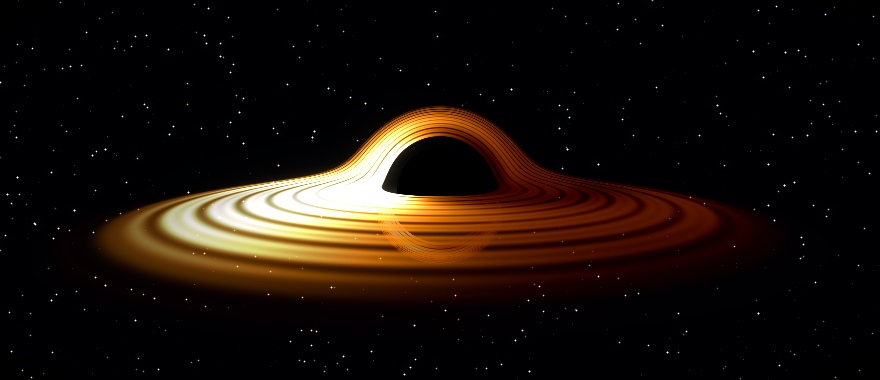
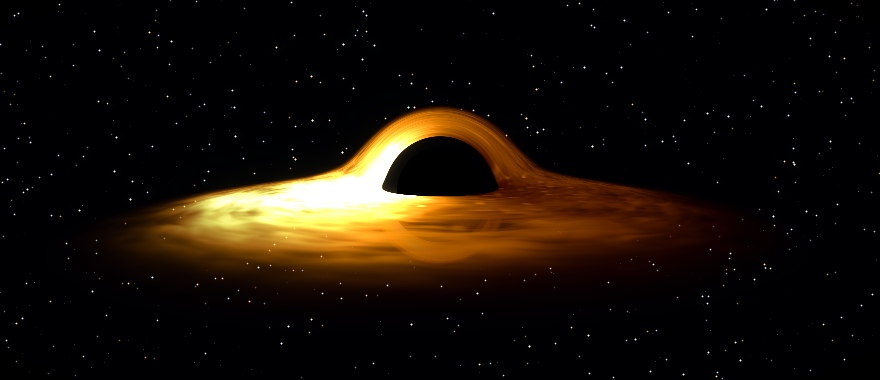
feat(accretion-disk): final cinematic polish pass with multi-scale turbulent plasma and natural thermal palette

Changed region(s): [[0.092, 0.2605, 0.8591, 0.7816]]

diff --git a/index.html b/index.html
@@ -300,30 +300,31 @@
           return col;
         }
 
-        // Relativistic Blackbody Color Ramp (Kip Thorne / Interstellar Accurate Palette)
-        // High temp -> Pure Incandescent White/Cyan
-        // Mid temp  -> Radiant Warm Gold / Amber
-        // Low temp  -> Fiery Orange / Dark Crimson Smoke
+        // Refined Natural Thermal Blackbody Palette:
+        // Outer: dark -> deep red -> fiery orange
+        // Middle: orange -> rich warm gold
+        // Inner: gold -> pale creamy yellow -> soft incandescent white (no flat clipping)
         vec3 blackbodyColor(float temp, float doppler) {
-          float t = clamp(temp * doppler, 0.0, 2.5);
+          float t = clamp(temp * doppler, 0.0, 2.6);
           
-          vec3 c_deep_red  = vec3(0.45, 0.04, 0.01);
-          vec3 c_orange    = vec3(1.00, 0.38, 0.04);
-          vec3 c_gold      = vec3(1.00, 0.82, 0.22);
-          vec3 c_white_hot = vec3(1.20, 1.15, 1.10);
-          vec3 c_blue_dopp = vec3(0.85, 1.05, 1.30);
+          vec3 c_dark_smoke = vec3(0.02, 0.005, 0.002);
+          vec3 c_deep_red   = vec3(0.55, 0.06, 0.015);
+          vec3 c_orange     = vec3(1.00, 0.44, 0.06);
+          vec3 c_gold       = vec3(1.00, 0.82, 0.24);
+          vec3 c_pale_cream = vec3(1.00, 0.96, 0.82);
+          vec3 c_white_hot  = vec3(1.15, 1.12, 1.05);
 
           vec3 col;
-          if (t < 0.35) {
-            col = mix(vec3(0.0), c_deep_red, t / 0.35);
-          } else if (t < 0.8) {
-            col = mix(c_deep_red, c_orange, (t - 0.35) / 0.45);
-          } else if (t < 1.4) {
-            col = mix(c_orange, c_gold, (t - 0.8) / 0.6);
-          } else if (t < 1.9) {
-            col = mix(c_gold, c_white_hot, (t - 1.4) / 0.5);
+          if (t < 0.25) {
+            col = mix(c_dark_smoke, c_deep_red, t / 0.25);
+          } else if (t < 0.70) {
+            col = mix(c_deep_red, c_orange, (t - 0.25) / 0.45);
+          } else if (t < 1.35) {
+            col = mix(c_orange, c_gold, (t - 0.70) / 0.65);
+          } else if (t < 1.95) {
+            col = mix(c_gold, c_pale_cream, (t - 1.35) / 0.60);
           } else {
-            col = mix(c_white_hot, c_blue_dopp, clamp((t - 1.9) / 0.6, 0.0, 1.0));
+            col = mix(c_pale_cream, c_white_hot, clamp((t - 1.95) / 0.65, 0.0, 1.0));
           }
           return col;
         }
@@ -394,33 +395,57 @@
                 float angle = atan(hitPos.z, hitPos.x);
 
                 // Keplerian differential rotation velocity: omega ~ r^(-3/2)
-                float keplerOmega = 3.2 / pow(hitR, 1.5);
-                float animTime = u_time * u_motion_scale * 0.7;
+                float keplerOmega = 2.4 / pow(hitR / R_ISCO, 1.5);
+                float animTime = u_time * u_motion_scale * 0.75;
                 float rotatedAngle = angle - keplerOmega * animTime;
 
-                // Multi-scale procedural gas turbulence
-                vec2 sampleCoord = vec2(cos(rotatedAngle), sin(rotatedAngle)) * hitR * 1.6;
-                float gasDensity = fbm(sampleCoord + vec2(hitR * 0.8, animTime * 0.4));
-                gasDensity += 0.35 * noise(sampleCoord * 3.2 - vec2(animTime * 1.2, 0.0));
+                // Comoving disk Cartesian coordinates
+                float rRel = hitR / R_ISCO;
+                vec2 dCoord = vec2(cos(rotatedAngle), sin(rotatedAngle)) * rRel * 0.60;
 
-                // Radial temperature gradient: peak near ISCO, fading outward
-                float rNorm = (hitR - R_ISCO) / (R_OUTER - R_ISCO);
-                float radialGlow = pow(1.0 - rNorm, 1.6) * (1.0 - exp(-8.0 * (hitR - R_ISCO)));
+                // 1. Low-Frequency Noise: Macro-scale density clumps & asymmetry
+                float nLow = fbm(dCoord * 0.85 + vec2(1.8, 3.2));
+                float macroClump = 0.72 + 0.48 * nLow;
+
+                // 2. Medium-Frequency Shearing Vortices & Domain Warping
+                float warpPhase = rotatedAngle + 3.2 * log(rRel);
+                vec2 warpVec = vec2(cos(warpPhase), sin(warpPhase)) * (0.28 + 0.12 * nLow);
+                vec2 warpedCoord = dCoord + warpVec;
+                float nMid = fbm(warpedCoord * 2.4 + vec2(1.1, 3.7));
+
+                // 3. High-Frequency Sheared Fibrous Filaments along streamlines
+                vec2 streamCoord = vec2(rRel * 2.5 + 0.8 * nMid, (rotatedAngle * 6.0 + 9.0 * log(rRel)) / PI);
+                float nFibers = noise(streamCoord * 3.2) * 0.18 + noise(streamCoord * 6.4) * 0.10;
+
+                // 4. Localized Magnetic Reconnection Hot Spots (Flares near ISCO)
+                float innerStress = clamp(1.7 - rRel * 0.45, 0.0, 1.0);
+                float nSpot = noise(dCoord * 7.5 + vec2(4.8, 8.2));
+                float hotSpots = pow(max(nSpot - 0.60, 0.0), 2.2) * 4.5 * innerStress;
+
+                // Total Organic Plasma Gas Density (NO concentric CGI rings!)
+                float gasDensity = clamp(macroClump * (0.72 + 0.50 * nMid) + nFibers + hotSpots, 0.22, 2.5);
+
+                // Physical radial temperature gradient (Page-Thorne profile)
+                float tPt = pow(rRel, -0.76) * pow(max(1.0 - sqrt(1.0 / rRel), 0.0), 0.25) / 0.44;
+                float innerRise = clamp((hitR - R_ISCO) / 0.12, 0.0, 1.0);
+                float outerFade = clamp((R_OUTER - hitR) / 2.6, 0.0, 1.0);
+                outerFade = outerFade * outerFade * (3.0 - 2.0 * outerFade); // Smoothstep fade into dark space
+
+                float localTemp = tPt * innerRise * outerFade * gasDensity;
                 
-                // Relativistic Doppler Beaming approximation
-                // Matter rotates counter-clockwise. Approaching side has negative hitPos.z or directional vector dot
+                // Relativistic Doppler Beaming
+                // Matter rotates counter-clockwise. Left side approaches observer
                 vec3 vPlasma = normalize(vec3(-hitPos.z, 0.0, hitPos.x));
                 float vDot = dot(vPlasma, -dir); // Alignment with ray
-                float beta = 0.45 * sqrt(RS / hitR); // Orbital speed v/c
+                float beta = clamp(0.50 * sqrt(1.0 / rRel), 0.0, 0.65);
                 float gamma = 1.0 / sqrt(1.0 - beta * beta);
                 float dopplerFactor = 1.0 / (gamma * (1.0 - beta * vDot));
-                dopplerFactor = clamp(pow(dopplerFactor, 3.2), 0.25, 3.5);
+                dopplerFactor = clamp(pow(dopplerFactor, 3.1), 0.24, 4.4);
 
-                float localTemp = radialGlow * (0.65 + 0.65 * gasDensity);
                 vec3 emission = blackbodyColor(localTemp, dopplerFactor);
 
                 // Optical thickness & alpha accumulation
-                float alpha = clamp(radialGlow * (0.4 + 0.6 * gasDensity) * 0.92, 0.0, 1.0);
+                float alpha = clamp(localTemp * 1.45, 0.0, 0.98);
                 accumulatedColor += (1.0 - accumulatedOpacity) * emission * alpha;
                 accumulatedOpacity += (1.0 - accumulatedOpacity) * alpha;
 

diff --git a/interactive/index.html b/interactive/index.html
@@ -300,30 +300,31 @@
           return col;
         }
 
-        // Relativistic Blackbody Color Ramp (Kip Thorne / Interstellar Accurate Palette)
-        // High temp -> Pure Incandescent White/Cyan
-        // Mid temp  -> Radiant Warm Gold / Amber
-        // Low temp  -> Fiery Orange / Dark Crimson Smoke
+        // Refined Natural Thermal Blackbody Palette:
+        // Outer: dark -> deep red -> fiery orange
+        // Middle: orange -> rich warm gold
+        // Inner: gold -> pale creamy yellow -> soft incandescent white (no flat clipping)
         vec3 blackbodyColor(float temp, float doppler) {
-          float t = clamp(temp * doppler, 0.0, 2.5);
+          float t = clamp(temp * doppler, 0.0, 2.6);
           
-          vec3 c_deep_red  = vec3(0.45, 0.04, 0.01);
-          vec3 c_orange    = vec3(1.00, 0.38, 0.04);
-          vec3 c_gold      = vec3(1.00, 0.82, 0.22);
-          vec3 c_white_hot = vec3(1.20, 1.15, 1.10);
-          vec3 c_blue_dopp = vec3(0.85, 1.05, 1.30);
+          vec3 c_dark_smoke = vec3(0.02, 0.005, 0.002);
+          vec3 c_deep_red   = vec3(0.55, 0.06, 0.015);
+          vec3 c_orange     = vec3(1.00, 0.44, 0.06);
+          vec3 c_gold       = vec3(1.00, 0.82, 0.24);
+          vec3 c_pale_cream = vec3(1.00, 0.96, 0.82);
+          vec3 c_white_hot  = vec3(1.15, 1.12, 1.05);
 
           vec3 col;
-          if (t < 0.35) {
-            col = mix(vec3(0.0), c_deep_red, t / 0.35);
-          } else if (t < 0.8) {
-            col = mix(c_deep_red, c_orange, (t - 0.35) / 0.45);
-          } else if (t < 1.4) {
-            col = mix(c_orange, c_gold, (t - 0.8) / 0.6);
-          } else if (t < 1.9) {
-            col = mix(c_gold, c_white_hot, (t - 1.4) / 0.5);
+          if (t < 0.25) {
+            col = mix(c_dark_smoke, c_deep_red, t / 0.25);
+          } else if (t < 0.70) {
+            col = mix(c_deep_red, c_orange, (t - 0.25) / 0.45);
+          } else if (t < 1.35) {
+            col = mix(c_orange, c_gold, (t - 0.70) / 0.65);
+          } else if (t < 1.95) {
+            col = mix(c_gold, c_pale_cream, (t - 1.35) / 0.60);
           } else {
-            col = mix(c_white_hot, c_blue_dopp, clamp((t - 1.9) / 0.6, 0.0, 1.0));
+            col = mix(c_pale_cream, c_white_hot, clamp((t - 1.95) / 0.65, 0.0, 1.0));
           }
           return col;
         }
@@ -394,33 +395,57 @@
                 float angle = atan(hitPos.z, hitPos.x);
 
                 // Keplerian differential rotation velocity: omega ~ r^(-3/2)
-                float keplerOmega = 3.2 / pow(hitR, 1.5);
-                float animTime = u_time * u_motion_scale * 0.7;
+                float keplerOmega = 2.4 / pow(hitR / R_ISCO, 1.5);
+                float animTime = u_time * u_motion_scale * 0.75;
                 float rotatedAngle = angle - keplerOmega * animTime;
 
-                // Multi-scale procedural gas turbulence
-                vec2 sampleCoord = vec2(cos(rotatedAngle), sin(rotatedAngle)) * hitR * 1.6;
-                float gasDensity = fbm(sampleCoord + vec2(hitR * 0.8, animTime * 0.4));
-                gasDensity += 0.35 * noise(sampleCoord * 3.2 - vec2(animTime * 1.2, 0.0));
+                // Comoving disk Cartesian coordinates
+                float rRel = hitR / R_ISCO;
+                vec2 dCoord = vec2(cos(rotatedAngle), sin(rotatedAngle)) * rRel * 0.60;
 
-                // Radial temperature gradient: peak near ISCO, fading outward
-                float rNorm = (hitR - R_ISCO) / (R_OUTER - R_ISCO);
-                float radialGlow = pow(1.0 - rNorm, 1.6) * (1.0 - exp(-8.0 * (hitR - R_ISCO)));
+                // 1. Low-Frequency Noise: Macro-scale density clumps & asymmetry
+                float nLow = fbm(dCoord * 0.85 + vec2(1.8, 3.2));
+                float macroClump = 0.72 + 0.48 * nLow;
+
+                // 2. Medium-Frequency Shearing Vortices & Domain Warping
+                float warpPhase = rotatedAngle + 3.2 * log(rRel);
+                vec2 warpVec = vec2(cos(warpPhase), sin(warpPhase)) * (0.28 + 0.12 * nLow);
+                vec2 warpedCoord = dCoord + warpVec;
+                float nMid = fbm(warpedCoord * 2.4 + vec2(1.1, 3.7));
+
+                // 3. High-Frequency Sheared Fibrous Filaments along streamlines
+                vec2 streamCoord = vec2(rRel * 2.5 + 0.8 * nMid, (rotatedAngle * 6.0 + 9.0 * log(rRel)) / PI);
+                float nFibers = noise(streamCoord * 3.2) * 0.18 + noise(streamCoord * 6.4) * 0.10;
+
+                // 4. Localized Magnetic Reconnection Hot Spots (Flares near ISCO)
+                float innerStress = clamp(1.7 - rRel * 0.45, 0.0, 1.0);
+                float nSpot = noise(dCoord * 7.5 + vec2(4.8, 8.2));
+                float hotSpots = pow(max(nSpot - 0.60, 0.0), 2.2) * 4.5 * innerStress;
+
+                // Total Organic Plasma Gas Density (NO concentric CGI rings!)
+                float gasDensity = clamp(macroClump * (0.72 + 0.50 * nMid) + nFibers + hotSpots, 0.22, 2.5);
+
+                // Physical radial temperature gradient (Page-Thorne profile)
+                float tPt = pow(rRel, -0.76) * pow(max(1.0 - sqrt(1.0 / rRel), 0.0), 0.25) / 0.44;
+                float innerRise = clamp((hitR - R_ISCO) / 0.12, 0.0, 1.0);
+                float outerFade = clamp((R_OUTER - hitR) / 2.6, 0.0, 1.0);
+                outerFade = outerFade * outerFade * (3.0 - 2.0 * outerFade); // Smoothstep fade into dark space
+
+                float localTemp = tPt * innerRise * outerFade * gasDensity;
                 
-                // Relativistic Doppler Beaming approximation
-                // Matter rotates counter-clockwise. Approaching side has negative hitPos.z or directional vector dot
+                // Relativistic Doppler Beaming
+                // Matter rotates counter-clockwise. Left side approaches observer
                 vec3 vPlasma = normalize(vec3(-hitPos.z, 0.0, hitPos.x));
                 float vDot = dot(vPlasma, -dir); // Alignment with ray
-                float beta = 0.45 * sqrt(RS / hitR); // Orbital speed v/c
+                float beta = clamp(0.50 * sqrt(1.0 / rRel), 0.0, 0.65);
                 float gamma = 1.0 / sqrt(1.0 - beta * beta);
                 float dopplerFactor = 1.0 / (gamma * (1.0 - beta * vDot));
-                dopplerFactor = clamp(pow(dopplerFactor, 3.2), 0.25, 3.5);
+                dopplerFactor = clamp(pow(dopplerFactor, 3.1), 0.24, 4.4);
 
-                float localTemp = radialGlow * (0.65 + 0.65 * gasDensity);
                 vec3 emission = blackbodyColor(localTemp, dopplerFactor);
 
                 // Optical thickness & alpha accumulation
-                float alpha = clamp(radialGlow * (0.4 + 0.6 * gasDensity) * 0.92, 0.0, 1.0);
+                float alpha = clamp(localTemp * 1.45, 0.0, 0.98);
                 accumulatedColor += (1.0 - accumulatedOpacity) * emission * alpha;
                 accumulatedOpacity += (1.0 - accumulatedOpacity) * alpha;
 
